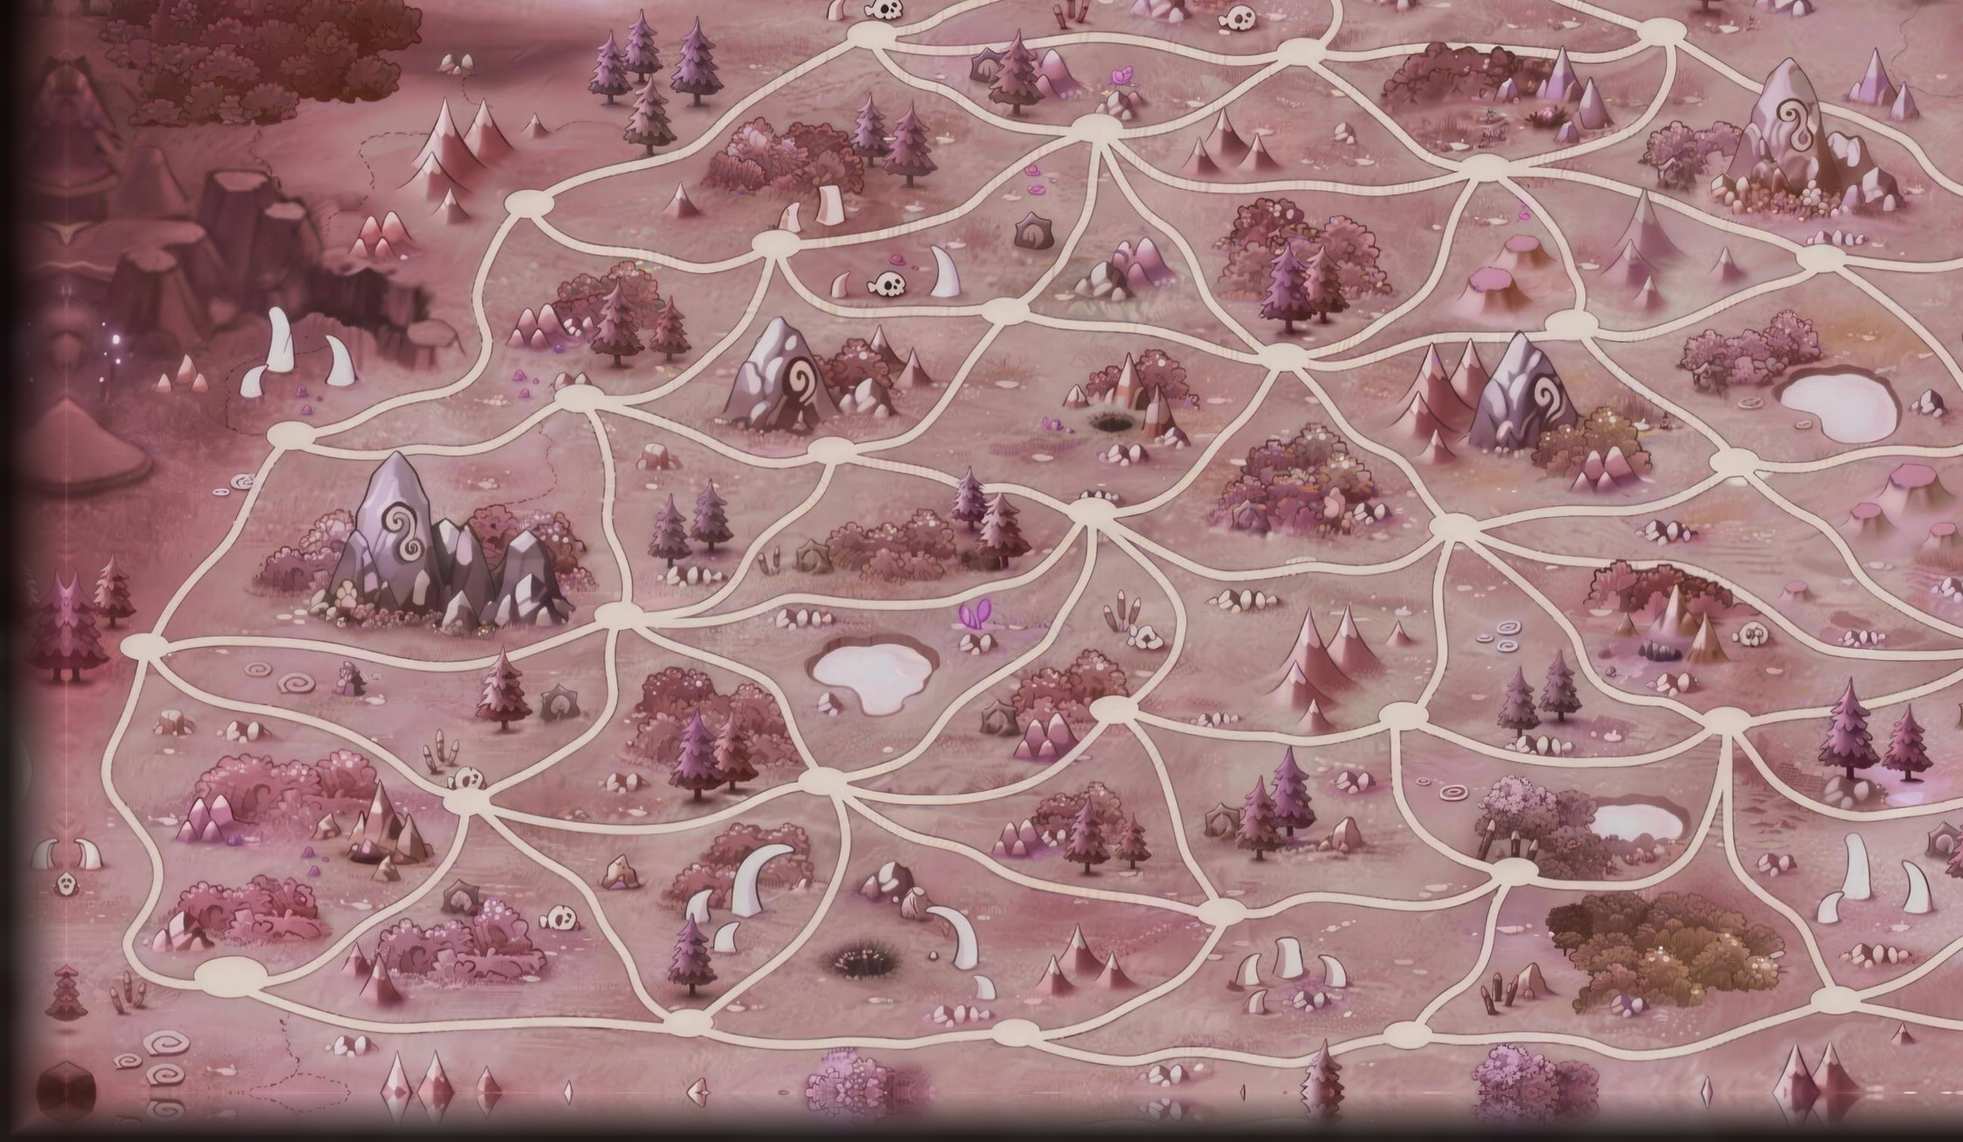
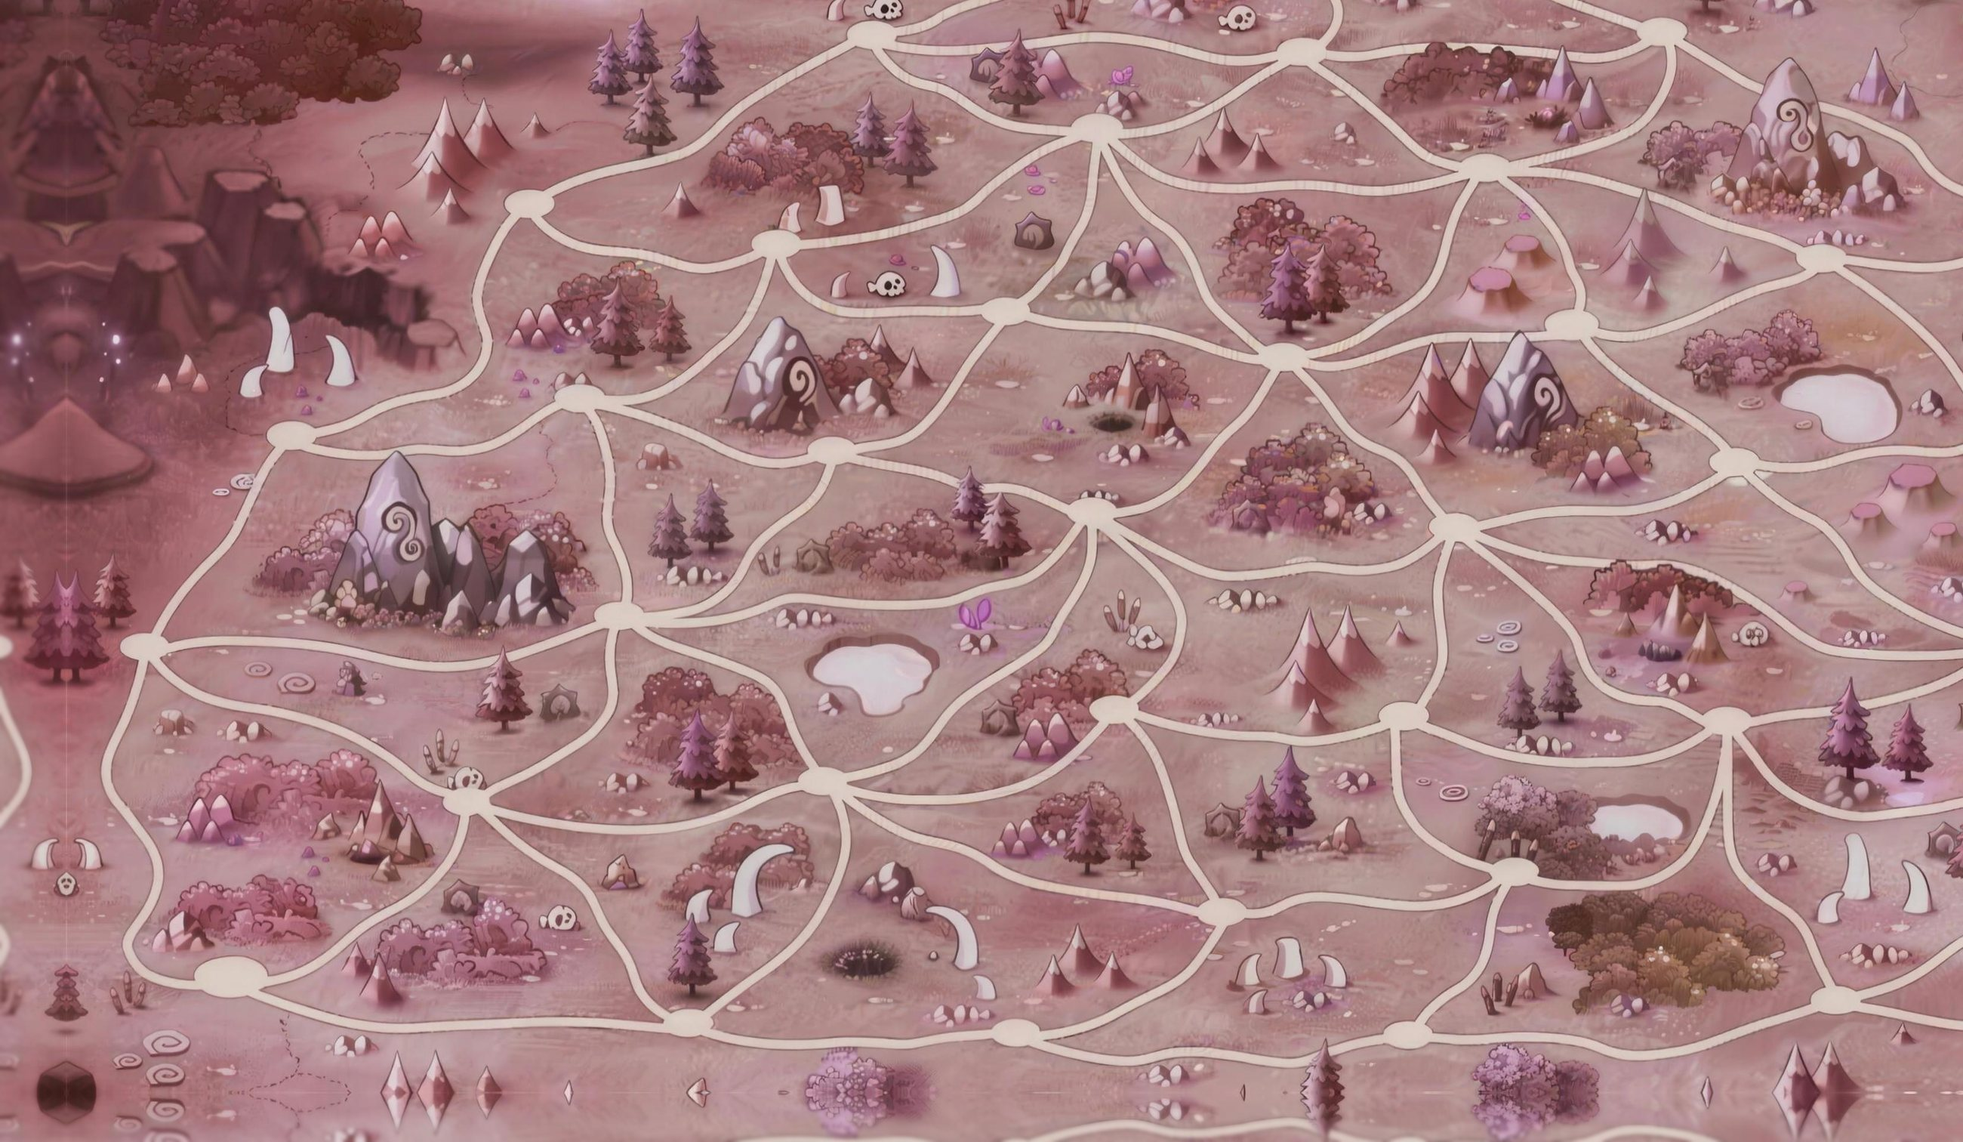
Frame the siege map as a HUD panel, readout boxes on Show all
- Map has hard edges with a hairline border, corner brackets, edge
  ticks and mono labels instead of a faded edge; the edge strips in
  the map image are no longer darkened
- Map and tower art a notch darker
- Show all boxes use a readout style: // base number, dotted rule and
  star grade over three portraits, on a chamfered plate
- Hovered towers draw above their neighbours

Changed region(s): [[0.0, 0.0, 1.0, 1.0]]

diff --git a/index.html b/index.html
@@ -1086,6 +1086,85 @@ body.theme-signal .smap-art::after{display:none}
 /* the tower under the pointer (and its box) draws above every other tower */
 .smap-hots .hot:hover,.smap-hots .hot:focus-visible,.smap-hots .hot:focus-within{z-index:30}
 
+
+/* ===== map frame: short feather; corner brackets just outside the map, as in the hero ===== */
+.smap-art,.smap-fx,.smap-dim{
+  --fh:linear-gradient(90deg,transparent 0,rgba(0,0,0,.45) 1.2%,#000 3%,#000 97%,rgba(0,0,0,.45) 98.8%,transparent 100%);
+  --fv:linear-gradient(180deg,transparent 0,rgba(0,0,0,.45) 1.4%,#000 3.5%,#000 96.5%,rgba(0,0,0,.45) 98.6%,transparent 100%);
+  --fr:linear-gradient(#000,#000)}
+.smap-brk{position:absolute;z-index:8;width:clamp(28px,2.6vw,40px);height:clamp(28px,2.6vw,40px);border:0 solid rgba(233,236,239,.55);pointer-events:none}
+.smap-brk.tl{left:calc(-1*clamp(12px,1.1vw,18px));top:calc(-1*clamp(12px,1.1vw,18px));border-left-width:2px;border-top-width:2px}
+.smap-brk.br{right:calc(-1*clamp(12px,1.1vw,18px));bottom:calc(-1*clamp(12px,1.1vw,18px));border-right-width:2px;border-bottom-width:2px}
+@media (min-width:701px){ .smap-scroll{padding:clamp(14px,1.3vw,20px) 0} }
+@media (max-width:700px){ .smap-brk{display:none} }
+/* ===== Show all, quieter: one slim row per tower (small number tab with the grade under it, three small portraits), lighter plate ===== */
+.theme-signal #smap-stage.show-all .hot .hb:not(.hb-hq){column-gap:4px;row-gap:1px;padding:3px 4px 3px 3px;
+  background:rgba(14,10,15,.78);border:1px solid rgba(255,236,248,.07);box-shadow:inset 0 -1.5px 0 color-mix(in srgb,var(--tc) 80%,transparent),0 3px 8px rgba(0,0,0,.35)}
+.theme-signal #smap-stage.show-all .hot .hb:not(.hb-hq) b{min-width:clamp(18px,1.6cqi,22px);padding:2px 3px 1px;font-size:clamp(11px,1.05cqi,14px);clip-path:polygon(0 0,100% 0,100% calc(100% - 5px),calc(100% - 5px) 100%,0 100%)}
+.theme-signal #smap-stage.show-all .hot .hb:not(.hb-hq) em{font-size:clamp(9px,.8cqi,10.5px);color:#b7aeb5}
+#smap-stage.show-all .hot .hb:not(.hb-hq) .hd{gap:2px}
+#smap-stage.show-all .hot .hb:not(.hb-hq) .hd img{width:clamp(20px,1.95cqi,27px)!important;height:clamp(20px,1.95cqi,27px)!important;border-color:rgba(255,236,248,.1)}
+#smap-stage.show-all .hot .hb .hd small{font-size:11px}
+/* hovering one brings it up to full size and strength */
+#smap-stage.show-all .hot:hover .hb:not(.hb-hq),#smap-stage.show-all .hot:focus-visible .hb:not(.hb-hq){background:rgba(14,10,15,.94)}
+#smap-stage.show-all .hot:hover .hb:not(.hb-hq) .hd img,#smap-stage.show-all .hot:focus-visible .hb:not(.hb-hq) .hd img{width:clamp(26px,2.5cqi,34px)!important;height:clamp(26px,2.5cqi,34px)!important}
+
+
+/* ===== map edge drafts ===== */
+.smap-brk.tr,.smap-brk.bl,.smap-hud{display:none}
+#placements:not([data-edge="fade"]) :is(.smap-art,.smap-fx,.smap-dim){-webkit-mask-image:none!important;mask-image:none!important}
+#placements:not([data-edge="fade"]) .smap-brk{display:none}
+#placements:not([data-edge="fade"]) .smap-scroll::before{display:none}
+  -webkit-mask-image:radial-gradient(ellipse 62% 72% at 50% 50%,#000 38%,transparent 100%);mask-image:radial-gradient(ellipse 62% 72% at 50% 50%,#000 38%,transparent 100%)}
+/* 3 HUD: hard edge, hairline border, brackets on all four corners, edge ticks, mono labels */
+#placements[data-edge="hud"] .smap-stage{box-shadow:0 0 0 1px rgba(233,236,239,.26)}
+#placements[data-edge="hud"] .smap-brk{display:block;width:22px;height:22px;border-color:#e9ecef}
+#placements[data-edge="hud"] .smap-brk.tl{left:-4px;top:-4px}
+#placements[data-edge="hud"] .smap-brk.br{right:-4px;bottom:-4px}
+#placements[data-edge="hud"] .smap-brk.tr{right:-4px;top:-4px;border-right-width:2px;border-top-width:2px}
+#placements[data-edge="hud"] .smap-brk.bl{left:-4px;bottom:-4px;border-left-width:2px;border-bottom-width:2px}
+#placements[data-edge="hud"] .smap-hud{display:block;position:absolute;inset:0;z-index:8;pointer-events:none}
+#placements[data-edge="hud"] .smap-hud::before,#placements[data-edge="hud"] .smap-hud::after{content:"";position:absolute;left:40px;right:40px;height:6px;background:repeating-linear-gradient(90deg,rgba(233,236,239,.45) 0 1px,transparent 1px 48px)}
+#placements[data-edge="hud"] .smap-hud::before{top:-10px}
+#placements[data-edge="hud"] .smap-hud::after{bottom:-10px}
+#placements[data-edge="hud"] .smap-hud b{position:absolute;font:400 11px/1 'Share Tech Mono',monospace;letter-spacing:.18em;text-transform:uppercase;color:#8b9199;font-weight:400}
+#placements[data-edge="hud"] .smap-hud b:first-child{left:0;top:-26px}
+#placements[data-edge="hud"] .smap-hud b:last-child{right:0;bottom:-26px}
+#placements[data-edge="hud"] .smap-scroll{padding:30px 0}
+@media (max-width:700px){ #placements[data-edge="hud"] .smap-hud,#placements[data-edge="hud"] .smap-brk{display:none} }
+
+/* a notch darker: the painting and the tower art */
+body.theme-signal .smap-stage{--grade:saturate(.93) brightness(.86) contrast(1.04)}
+.hot .nd img{filter:brightness(.92) saturate(.96)}
+
+
+/* ===== Show all box drafts ===== */
+
+
+
+
+
+
+
+/* ===== box drafts, a size up ===== */
+/* stack: one row, never wraps */
+/* strip: bigger portraits, a proper flap with number and grade side by side */
+
+
+
+
+
+/* 9 READOUT: the hero's label language: // number, a dotted rule, the grade; a hairline chamfered plate */
+.theme-signal #smap-stage.show-all[data-pv="readout"] .hot .hb:not(.hb-hq){display:grid!important;grid-template-columns:auto 1fr;grid-template-areas:"n s" "p p";column-gap:8px;row-gap:6px;padding:7px 9px 9px;
+  background:rgba(9,10,12,.9)!important;border:1px solid rgba(233,236,239,.22)!important;box-shadow:0 6px 14px rgba(0,0,0,.45)!important;clip-path:polygon(0 0,calc(100% - 10px) 0,100% 10px,100% 100%,10px 100%,0 calc(100% - 10px))!important}
+.theme-signal #smap-stage.show-all[data-pv="readout"] .hot .hb:not(.hb-hq) b{all:unset;grid-area:n;font:400 12.5px/1 'Share Tech Mono',monospace!important;letter-spacing:.14em;color:#e9ecef}
+.theme-signal #smap-stage.show-all[data-pv="readout"] .hot .hb:not(.hb-hq) b::before{content:"// ";color:var(--tc)}
+.theme-signal #smap-stage.show-all[data-pv="readout"] .hot .hb:not(.hb-hq) em{grid-area:s;display:flex!important;align-items:center;gap:6px;font:400 11px/1 'Share Tech Mono',monospace!important;color:var(--tc)!important}
+.theme-signal #smap-stage.show-all[data-pv="readout"] .hot .hb:not(.hb-hq) em::before{content:"";flex:1;min-width:14px;height:4px;background:radial-gradient(circle,rgba(233,236,239,.45) 1px,transparent 1.3px) 0 50%/6px 4px repeat-x}
+#smap-stage.show-all[data-pv="readout"] .hot .hb:not(.hb-hq) .hd{grid-area:p;gap:3px}
+#smap-stage.show-all[data-pv="readout"] .hot .hb:not(.hb-hq) .hd img{width:clamp(30px,2.85cqi,40px)!important;height:clamp(30px,2.85cqi,40px)!important;border:1px solid rgba(233,236,239,.16)!important}
+
+
 /* tower panel leader line (desktop) */
 .tp-link{position:absolute;left:0;top:0;width:100%;height:100%;overflow:visible;pointer-events:none;z-index:11;display:none}
 .tp-link.on{display:block}
@@ -1161,7 +1240,7 @@ body.theme-signal .smap-art::after{display:none}
   </div>
 </section>
 
-<section class="smap" id="placements" aria-labelledby="h-map">
+<section class="smap" id="placements" aria-labelledby="h-map" data-edge="hud">
   <div class="in smap-head">
     <h2 class="h2" id="h-map">Placements</h2>
     <button type="button" class="stog" id="smap-badges" aria-pressed="false">Show all</button>
@@ -1412,7 +1491,7 @@ function renderMap(){
   });});
   Object.entries((SM.place||{})[state.sn]||{}).forEach(([k,ids])=>ids.forEach(u=>{ const [sid,i]=u.split('-'); if(S().sections.some(x=>x.id===sid&&x.teams[+i])) (towerDefs[k]=towerDefs[k]||[]).includes(u)||(towerDefs[k]=towerDefs[k]||[]).push(u); }));
   const host=$('#maphost'), keys=Object.keys(SM.towers).filter(k=>!isClosed(k));
-  host.innerHTML=`<div class="smap-scroll" id="smap-scroll"><div class="smap-stage run${$('#smap-badges').getAttribute('aria-pressed')==='true'?' show-all':''}" id="smap-stage"><div class="smap-art"><img class="smap-img" src="${SM.img}" width="2600" height="1512" alt="Season ${esc(state.sn)} siege map, with the defense placed on each Blue, Red and Yellow tower" decoding="async">${(reduce||saveData||!SM.video)?'':'<video class="smap-vid" muted loop playsinline preload="none" aria-hidden="true" tabindex="-1"></video>'}</div><div class="smap-fx" aria-hidden="true">${reduce?'':fxHTML()}</div><div class="smap-dim" aria-hidden="true"></div><div class="smap-hots" id="hots"><svg class="leads" id="leads" aria-hidden="true"></svg>${keys.map(hotHTML).join('')}</div><div class="smap-px" aria-hidden="true"></div><div class="smap-vig" aria-hidden="true"></div></div></div>`;
+  host.innerHTML=`<div class="smap-scroll" id="smap-scroll"><div class="smap-stage run${$('#smap-badges').getAttribute('aria-pressed')==='true'?' show-all':''}" id="smap-stage" data-pv="readout"><div class="smap-art"><img class="smap-img" src="${SM.img}" width="2600" height="1512" alt="Season ${esc(state.sn)} siege map, with the defense placed on each Blue, Red and Yellow tower" decoding="async">${(reduce||saveData||!SM.video)?'':'<video class="smap-vid" muted loop playsinline preload="none" aria-hidden="true" tabindex="-1"></video>'}</div><div class="smap-fx" aria-hidden="true">${reduce?'':fxHTML()}</div><div class="smap-dim" aria-hidden="true"></div><div class="smap-hots" id="hots"><svg class="leads" id="leads" aria-hidden="true"></svg>${keys.map(hotHTML).join('')}</div><div class="smap-px" aria-hidden="true"></div><div class="smap-vig" aria-hidden="true"></div><i class="smap-brk tl" aria-hidden="true"></i><i class="smap-brk br" aria-hidden="true"></i><i class="smap-brk tr" aria-hidden="true"></i><i class="smap-brk bl" aria-hidden="true"></i><i class="smap-hud" aria-hidden="true"><b>Siege map // Season ${esc(state.sn)}</b><b>${Object.keys(towerDefs).filter(k=>!isClosed(k)&&SM.towers[k]).length} bases held</b></i></div></div>`;
   const stage=$('#smap-stage');
   if('IntersectionObserver' in window) new IntersectionObserver(es=>es.forEach(e=>stage.classList.toggle('run',e.isIntersecting)),{threshold:0}).observe(stage);
   const vid=$('.smap-vid',stage);

diff --git a/siege-defense.html b/siege-defense.html
@@ -1086,6 +1086,85 @@ body.theme-signal .smap-art::after{display:none}
 /* the tower under the pointer (and its box) draws above every other tower */
 .smap-hots .hot:hover,.smap-hots .hot:focus-visible,.smap-hots .hot:focus-within{z-index:30}
 
+
+/* ===== map frame: short feather; corner brackets just outside the map, as in the hero ===== */
+.smap-art,.smap-fx,.smap-dim{
+  --fh:linear-gradient(90deg,transparent 0,rgba(0,0,0,.45) 1.2%,#000 3%,#000 97%,rgba(0,0,0,.45) 98.8%,transparent 100%);
+  --fv:linear-gradient(180deg,transparent 0,rgba(0,0,0,.45) 1.4%,#000 3.5%,#000 96.5%,rgba(0,0,0,.45) 98.6%,transparent 100%);
+  --fr:linear-gradient(#000,#000)}
+.smap-brk{position:absolute;z-index:8;width:clamp(28px,2.6vw,40px);height:clamp(28px,2.6vw,40px);border:0 solid rgba(233,236,239,.55);pointer-events:none}
+.smap-brk.tl{left:calc(-1*clamp(12px,1.1vw,18px));top:calc(-1*clamp(12px,1.1vw,18px));border-left-width:2px;border-top-width:2px}
+.smap-brk.br{right:calc(-1*clamp(12px,1.1vw,18px));bottom:calc(-1*clamp(12px,1.1vw,18px));border-right-width:2px;border-bottom-width:2px}
+@media (min-width:701px){ .smap-scroll{padding:clamp(14px,1.3vw,20px) 0} }
+@media (max-width:700px){ .smap-brk{display:none} }
+/* ===== Show all, quieter: one slim row per tower (small number tab with the grade under it, three small portraits), lighter plate ===== */
+.theme-signal #smap-stage.show-all .hot .hb:not(.hb-hq){column-gap:4px;row-gap:1px;padding:3px 4px 3px 3px;
+  background:rgba(14,10,15,.78);border:1px solid rgba(255,236,248,.07);box-shadow:inset 0 -1.5px 0 color-mix(in srgb,var(--tc) 80%,transparent),0 3px 8px rgba(0,0,0,.35)}
+.theme-signal #smap-stage.show-all .hot .hb:not(.hb-hq) b{min-width:clamp(18px,1.6cqi,22px);padding:2px 3px 1px;font-size:clamp(11px,1.05cqi,14px);clip-path:polygon(0 0,100% 0,100% calc(100% - 5px),calc(100% - 5px) 100%,0 100%)}
+.theme-signal #smap-stage.show-all .hot .hb:not(.hb-hq) em{font-size:clamp(9px,.8cqi,10.5px);color:#b7aeb5}
+#smap-stage.show-all .hot .hb:not(.hb-hq) .hd{gap:2px}
+#smap-stage.show-all .hot .hb:not(.hb-hq) .hd img{width:clamp(20px,1.95cqi,27px)!important;height:clamp(20px,1.95cqi,27px)!important;border-color:rgba(255,236,248,.1)}
+#smap-stage.show-all .hot .hb .hd small{font-size:11px}
+/* hovering one brings it up to full size and strength */
+#smap-stage.show-all .hot:hover .hb:not(.hb-hq),#smap-stage.show-all .hot:focus-visible .hb:not(.hb-hq){background:rgba(14,10,15,.94)}
+#smap-stage.show-all .hot:hover .hb:not(.hb-hq) .hd img,#smap-stage.show-all .hot:focus-visible .hb:not(.hb-hq) .hd img{width:clamp(26px,2.5cqi,34px)!important;height:clamp(26px,2.5cqi,34px)!important}
+
+
+/* ===== map edge drafts ===== */
+.smap-brk.tr,.smap-brk.bl,.smap-hud{display:none}
+#placements:not([data-edge="fade"]) :is(.smap-art,.smap-fx,.smap-dim){-webkit-mask-image:none!important;mask-image:none!important}
+#placements:not([data-edge="fade"]) .smap-brk{display:none}
+#placements:not([data-edge="fade"]) .smap-scroll::before{display:none}
+  -webkit-mask-image:radial-gradient(ellipse 62% 72% at 50% 50%,#000 38%,transparent 100%);mask-image:radial-gradient(ellipse 62% 72% at 50% 50%,#000 38%,transparent 100%)}
+/* 3 HUD: hard edge, hairline border, brackets on all four corners, edge ticks, mono labels */
+#placements[data-edge="hud"] .smap-stage{box-shadow:0 0 0 1px rgba(233,236,239,.26)}
+#placements[data-edge="hud"] .smap-brk{display:block;width:22px;height:22px;border-color:#e9ecef}
+#placements[data-edge="hud"] .smap-brk.tl{left:-4px;top:-4px}
+#placements[data-edge="hud"] .smap-brk.br{right:-4px;bottom:-4px}
+#placements[data-edge="hud"] .smap-brk.tr{right:-4px;top:-4px;border-right-width:2px;border-top-width:2px}
+#placements[data-edge="hud"] .smap-brk.bl{left:-4px;bottom:-4px;border-left-width:2px;border-bottom-width:2px}
+#placements[data-edge="hud"] .smap-hud{display:block;position:absolute;inset:0;z-index:8;pointer-events:none}
+#placements[data-edge="hud"] .smap-hud::before,#placements[data-edge="hud"] .smap-hud::after{content:"";position:absolute;left:40px;right:40px;height:6px;background:repeating-linear-gradient(90deg,rgba(233,236,239,.45) 0 1px,transparent 1px 48px)}
+#placements[data-edge="hud"] .smap-hud::before{top:-10px}
+#placements[data-edge="hud"] .smap-hud::after{bottom:-10px}
+#placements[data-edge="hud"] .smap-hud b{position:absolute;font:400 11px/1 'Share Tech Mono',monospace;letter-spacing:.18em;text-transform:uppercase;color:#8b9199;font-weight:400}
+#placements[data-edge="hud"] .smap-hud b:first-child{left:0;top:-26px}
+#placements[data-edge="hud"] .smap-hud b:last-child{right:0;bottom:-26px}
+#placements[data-edge="hud"] .smap-scroll{padding:30px 0}
+@media (max-width:700px){ #placements[data-edge="hud"] .smap-hud,#placements[data-edge="hud"] .smap-brk{display:none} }
+
+/* a notch darker: the painting and the tower art */
+body.theme-signal .smap-stage{--grade:saturate(.93) brightness(.86) contrast(1.04)}
+.hot .nd img{filter:brightness(.92) saturate(.96)}
+
+
+/* ===== Show all box drafts ===== */
+
+
+
+
+
+
+
+/* ===== box drafts, a size up ===== */
+/* stack: one row, never wraps */
+/* strip: bigger portraits, a proper flap with number and grade side by side */
+
+
+
+
+
+/* 9 READOUT: the hero's label language: // number, a dotted rule, the grade; a hairline chamfered plate */
+.theme-signal #smap-stage.show-all[data-pv="readout"] .hot .hb:not(.hb-hq){display:grid!important;grid-template-columns:auto 1fr;grid-template-areas:"n s" "p p";column-gap:8px;row-gap:6px;padding:7px 9px 9px;
+  background:rgba(9,10,12,.9)!important;border:1px solid rgba(233,236,239,.22)!important;box-shadow:0 6px 14px rgba(0,0,0,.45)!important;clip-path:polygon(0 0,calc(100% - 10px) 0,100% 10px,100% 100%,10px 100%,0 calc(100% - 10px))!important}
+.theme-signal #smap-stage.show-all[data-pv="readout"] .hot .hb:not(.hb-hq) b{all:unset;grid-area:n;font:400 12.5px/1 'Share Tech Mono',monospace!important;letter-spacing:.14em;color:#e9ecef}
+.theme-signal #smap-stage.show-all[data-pv="readout"] .hot .hb:not(.hb-hq) b::before{content:"// ";color:var(--tc)}
+.theme-signal #smap-stage.show-all[data-pv="readout"] .hot .hb:not(.hb-hq) em{grid-area:s;display:flex!important;align-items:center;gap:6px;font:400 11px/1 'Share Tech Mono',monospace!important;color:var(--tc)!important}
+.theme-signal #smap-stage.show-all[data-pv="readout"] .hot .hb:not(.hb-hq) em::before{content:"";flex:1;min-width:14px;height:4px;background:radial-gradient(circle,rgba(233,236,239,.45) 1px,transparent 1.3px) 0 50%/6px 4px repeat-x}
+#smap-stage.show-all[data-pv="readout"] .hot .hb:not(.hb-hq) .hd{grid-area:p;gap:3px}
+#smap-stage.show-all[data-pv="readout"] .hot .hb:not(.hb-hq) .hd img{width:clamp(30px,2.85cqi,40px)!important;height:clamp(30px,2.85cqi,40px)!important;border:1px solid rgba(233,236,239,.16)!important}
+
+
 /* tower panel leader line (desktop) */
 .tp-link{position:absolute;left:0;top:0;width:100%;height:100%;overflow:visible;pointer-events:none;z-index:11;display:none}
 .tp-link.on{display:block}
@@ -1161,7 +1240,7 @@ body.theme-signal .smap-art::after{display:none}
   </div>
 </section>
 
-<section class="smap" id="placements" aria-labelledby="h-map">
+<section class="smap" id="placements" aria-labelledby="h-map" data-edge="hud">
   <div class="in smap-head">
     <h2 class="h2" id="h-map">Placements</h2>
     <button type="button" class="stog" id="smap-badges" aria-pressed="false">Show all</button>
@@ -1412,7 +1491,7 @@ function renderMap(){
   });});
   Object.entries((SM.place||{})[state.sn]||{}).forEach(([k,ids])=>ids.forEach(u=>{ const [sid,i]=u.split('-'); if(S().sections.some(x=>x.id===sid&&x.teams[+i])) (towerDefs[k]=towerDefs[k]||[]).includes(u)||(towerDefs[k]=towerDefs[k]||[]).push(u); }));
   const host=$('#maphost'), keys=Object.keys(SM.towers).filter(k=>!isClosed(k));
-  host.innerHTML=`<div class="smap-scroll" id="smap-scroll"><div class="smap-stage run${$('#smap-badges').getAttribute('aria-pressed')==='true'?' show-all':''}" id="smap-stage"><div class="smap-art"><img class="smap-img" src="${SM.img}" width="2600" height="1512" alt="Season ${esc(state.sn)} siege map, with the defense placed on each Blue, Red and Yellow tower" decoding="async">${(reduce||saveData||!SM.video)?'':'<video class="smap-vid" muted loop playsinline preload="none" aria-hidden="true" tabindex="-1"></video>'}</div><div class="smap-fx" aria-hidden="true">${reduce?'':fxHTML()}</div><div class="smap-dim" aria-hidden="true"></div><div class="smap-hots" id="hots"><svg class="leads" id="leads" aria-hidden="true"></svg>${keys.map(hotHTML).join('')}</div><div class="smap-px" aria-hidden="true"></div><div class="smap-vig" aria-hidden="true"></div></div></div>`;
+  host.innerHTML=`<div class="smap-scroll" id="smap-scroll"><div class="smap-stage run${$('#smap-badges').getAttribute('aria-pressed')==='true'?' show-all':''}" id="smap-stage" data-pv="readout"><div class="smap-art"><img class="smap-img" src="${SM.img}" width="2600" height="1512" alt="Season ${esc(state.sn)} siege map, with the defense placed on each Blue, Red and Yellow tower" decoding="async">${(reduce||saveData||!SM.video)?'':'<video class="smap-vid" muted loop playsinline preload="none" aria-hidden="true" tabindex="-1"></video>'}</div><div class="smap-fx" aria-hidden="true">${reduce?'':fxHTML()}</div><div class="smap-dim" aria-hidden="true"></div><div class="smap-hots" id="hots"><svg class="leads" id="leads" aria-hidden="true"></svg>${keys.map(hotHTML).join('')}</div><div class="smap-px" aria-hidden="true"></div><div class="smap-vig" aria-hidden="true"></div><i class="smap-brk tl" aria-hidden="true"></i><i class="smap-brk br" aria-hidden="true"></i><i class="smap-brk tr" aria-hidden="true"></i><i class="smap-brk bl" aria-hidden="true"></i><i class="smap-hud" aria-hidden="true"><b>Siege map // Season ${esc(state.sn)}</b><b>${Object.keys(towerDefs).filter(k=>!isClosed(k)&&SM.towers[k]).length} bases held</b></i></div></div>`;
   const stage=$('#smap-stage');
   if('IntersectionObserver' in window) new IntersectionObserver(es=>es.forEach(e=>stage.classList.toggle('run',e.isIntersecting)),{threshold:0}).observe(stage);
   const vid=$('.smap-vid',stage);
